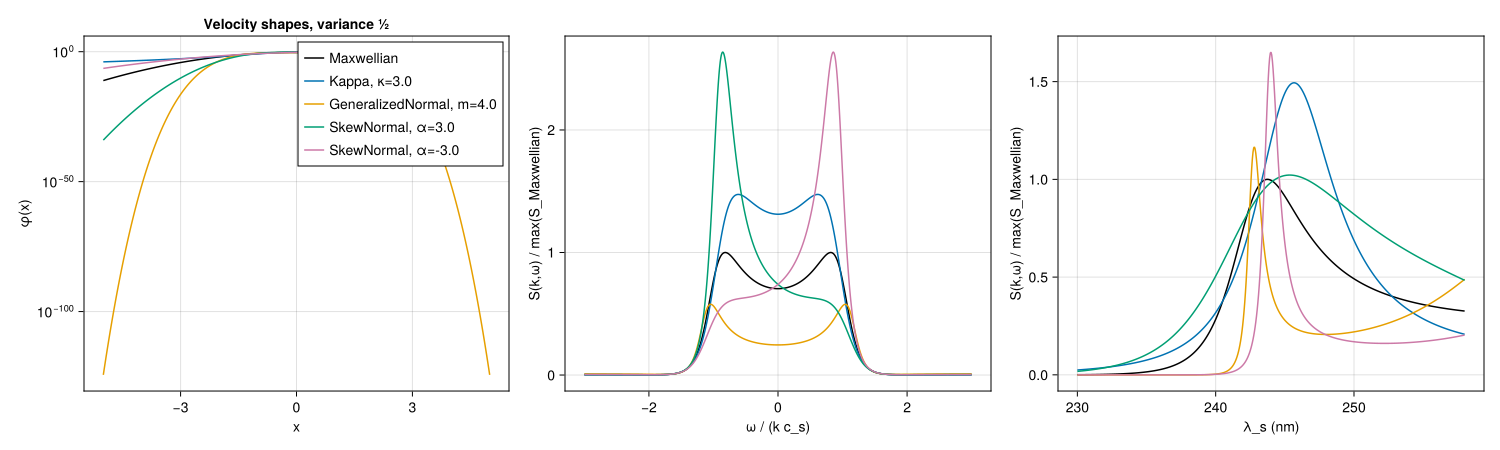
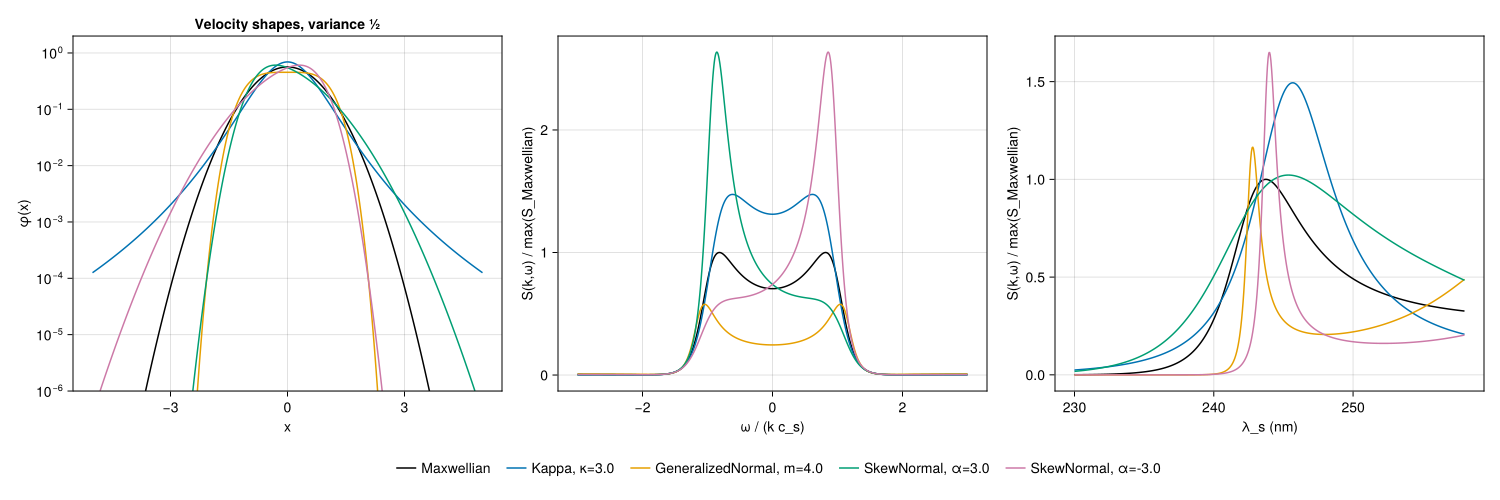
Step 4.C.0: housekeeping from the Phase 4.B close
Seven items from Level 1's review of 7a59f92, ordered by the user:
1. Kappa's domain check compares primal values (ForwardDiff 1.x orders
   a dual at a tie by its partials); KP25 added.
2. GeneralizedNormal's constructor guard compares the primal; GN26 added.
3. KP8's vacuous `|| true` line replaced with a real assertion.
4. kappa.md's residue paragraph corrected: for Im xi > 0 the pole at
   x = xi is inside the upper contour, not outside.
5. chebyshev_table.jl's docstring updated to name all five tables.
6. noise.jl's two conventions.md 10.4 citations retargeted to Section 4's
   AbstractNoiseModel entry.
7. shapes.png panel (a) y-limits and legend moved below the three panels;
   regenerated.

diff --git a/docs/derivations/kappa.md b/docs/derivations/kappa.md
@@ -117,18 +117,19 @@ converge at the table's edge. A kappa distribution's moments diverge above order
 special function — here `loggamma`, inside `_kappa_C` and inside the shape's own `C` — is never
 its own oracle; a closed form derived by a wholly different route, residues, is). For integer `κ =
 n ≥ 2`, `φ(x) ∝ (1+x²/a²)^{−n}` is a rational function of `x` with poles of order `n` at `x =
-±ia`. Closing the contour `∫φ'(x)/(x−ξ) dx` in the upper half-plane (`Im ξ > 0`) picks up the pole
-at `x = ia`:
+±ia`, so `φ'(x)` has poles of order `n + 1` there. For `Im ξ > 0`, closing the contour of
+`∫φ'(x)/(x−ξ) dx` in the upper half-plane encloses **two** singularities of the integrand: the
+simple pole at `x = ξ`, **inside** the contour because `Im ξ > 0`, with residue `φ'(ξ)`; and the
+pole of order `n + 1` at `x = ia`. The arc at infinity contributes nothing, since the integrand
+decays like `|x|^{−2n−2}`. Hence
 
-    𝒞φ(ξ) = 2πi · [φ'(ξ) + D(ξ)],   D(ξ) = d/dξ Res_{x=ia} φ(x)/(x−ξ),
+    𝒞φ(ξ) = 2πi · [φ'(ξ) + D(ξ)],   D(ξ) = Res_{x=ia} φ'(x)/(x−ξ) = d/dξ Res_{x=ia} φ(x)/(x−ξ),
 
-by the residue theorem applied to `φ(x)/(x−ξ)`, whose only singularities inside the contour (for
-`Im ξ > 0`, `x = ξ` is *outside* since the ξ appears with `Im ξ>0` while the contour picks up
-`x=ia`... to be precise: the *derivative* `𝒞φ` is `∫ φ'/(x−ξ)`, and writing `φ'` itself via its own
-value at ξ plus the residue contribution at the pole `x=ia` is what `D(ξ)` captures) — worked out
-by Leibniz's rule on `(x+ia)^{−n}(x−ξ)^{−1}` (the residue of an order-`n` pole is the
-`(n−1)`-th derivative, divided by `(n−1)!`, of the rest of the function, and `D(ξ)` is one further
-`ξ`-derivative of that):
+the pole at `x = ξ` being why `φ'(ξ)` appears beside `D(ξ)`. The second form of `D(ξ)` holds because
+`φ'(x)/(x−ξ)` and `φ(x)/(x−ξ)²` differ by `d/dx[φ(x)/(x−ξ)]`, whose residue is zero, and
+`φ(x)/(x−ξ)² = ∂/∂ξ [φ(x)/(x−ξ)]`. It is worked out by Leibniz's rule on `(x+ia)^{−n}(x−ξ)^{−1}`
+(the residue of an order-`n` pole is the `(n−1)`-th derivative, divided by `(n−1)!`, of the rest
+of the function, and `D(ξ)` is one further `ξ`-derivative of that):
 
     D(ξ)  = C · a^{2n} · (−1)^{n−1} · Σ_{j=0}^{n−1} p_j · (n − j) · (2ia)^{−n−j} · (ia − ξ)^{j−n−1},
     p_0 = 1,   p_j = p_{j−1} · (n + j − 1) / j     (p_j = (n)_j / j!, always an integer),
